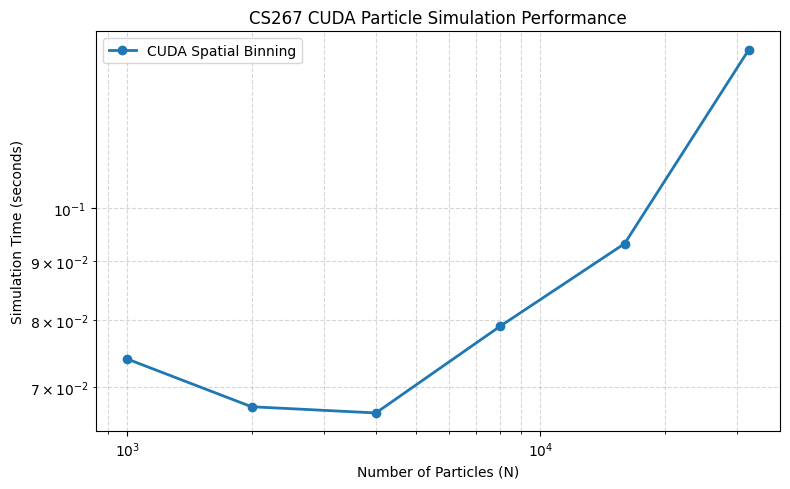
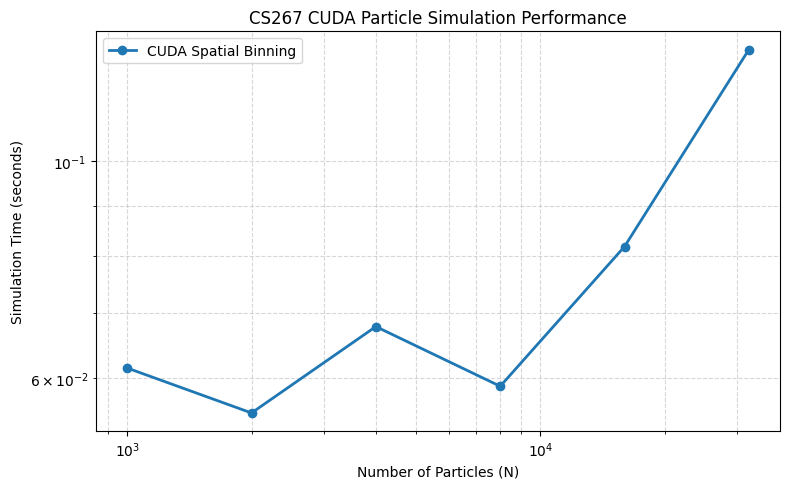
assess the compute forces time

diff --git a/results/writeup-cuda.md b/results/writeup-cuda.md
@@ -40,19 +40,26 @@ increment the cell_count[cell_id]
 - 3.add paticles into cell_particles using cell_write_counts
 
 ### results
-```bash
-Simulation Time = 0.0870033 seconds for 1000 particles.
-Simulation Time = 0.0790949 seconds for 2000 particles.
-Simulation Time = 0.0769166 seconds for 4000 particles.
-Simulation Time = 0.105495 seconds for 10000 particles.
-```
 - A plot in the log-log scale showing your parallel codes performance 
-
-
+![alt text](cuda-log-log-plot.png)
 
 # 2.Description of the synchronization I used in the GPU implementation.
+The synchornization is both at the function calling level and at the atomic change of global variables. 
+For example, particle counts are computed in parallel by compute_cell_gpu.
+The prefix sum is performed only after the counting kernel finishes.
+Additionally, atomicAdd() is used in compute_cell_gpu and scatter_particles_gpu 
+to prevent race conditions when multiple threads update the same cell.
 
 # 3.Description of the design choices that I tried and how did they affect the performance.
+First, I assigned each particle to a CUDA thread to compute its cell ID in parallel. Each thread uses atomicAdd() to update the particle count of its corresponding cell.
+
+Second, I used the CUB library to compute an exclusive prefix sum on the GPU, obtaining the starting offset of each cell in the cell_particles array.
+
+Third, I assigned each particle to a CUDA thread again to insert its particle ID into cell_particles. I used an auxiliary array, cell_write_counts, and atomicAdd() to prevent race conditions.
+
+Fourth, I assigned each particle to a CUDA thread to compute its acceleration by checking only the particles in its own cell and the eight neighboring cells. Finally, another CUDA kernel updates each particle's velocity and position.
+
+Performance Impact: Spatial binning reduces unnecessary particle-pair checks compared with the original (O(N^2)) implementation. My experiments showed a significant reduction in simulation time, especially for larger particle counts. However, building the spatial grid introduces additional overhead, including atomic operations and prefix sum computation.
 
 # 4. runtime analysis
 - break down the runtime into computation time, synchronization time and/or communication time 
